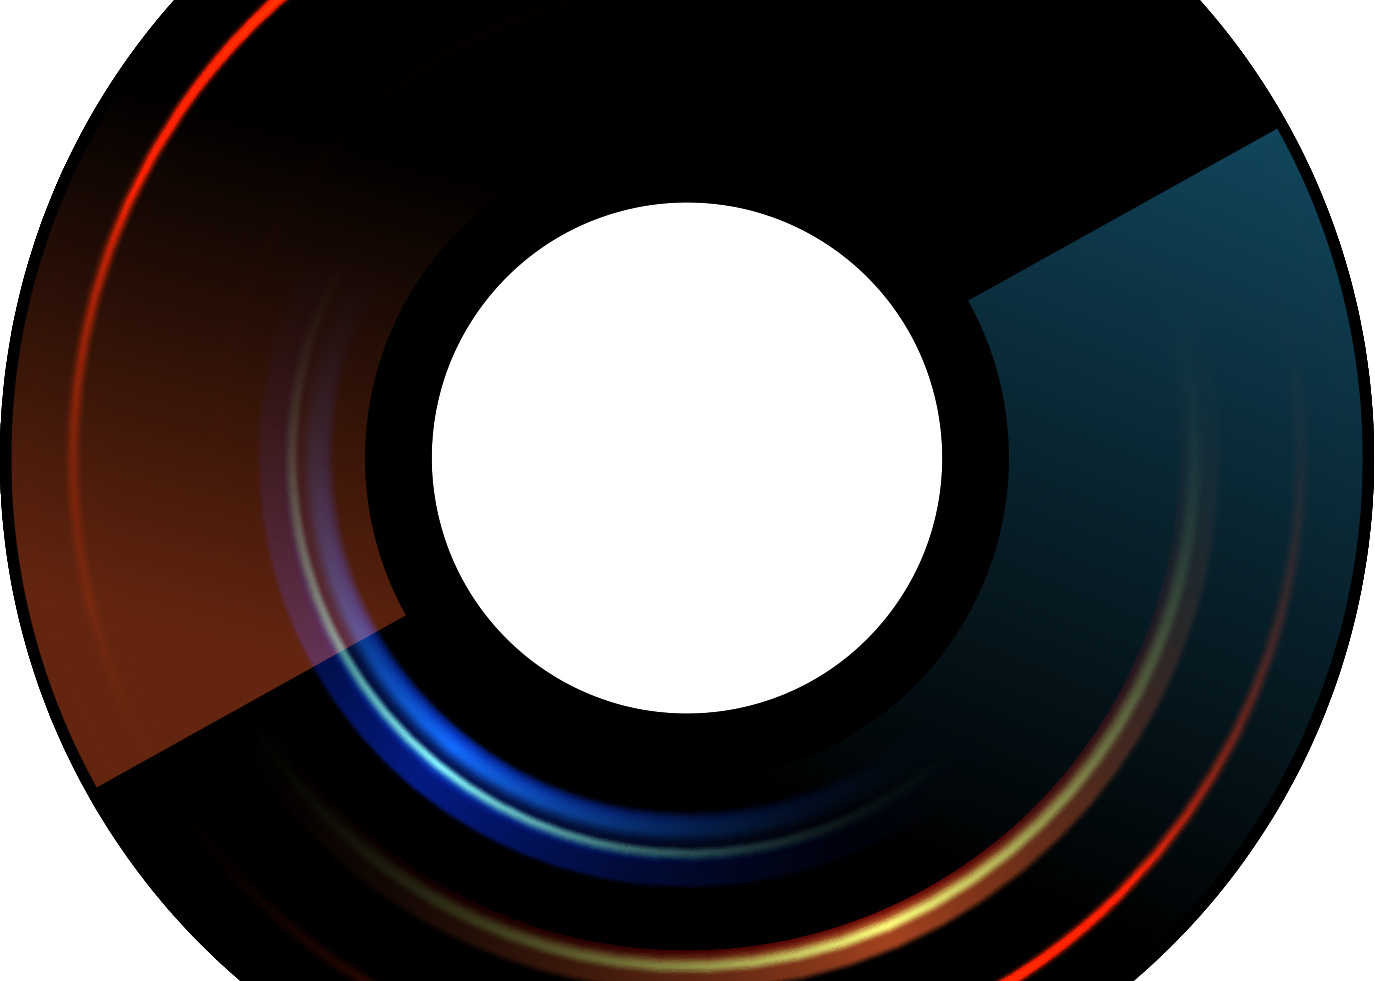
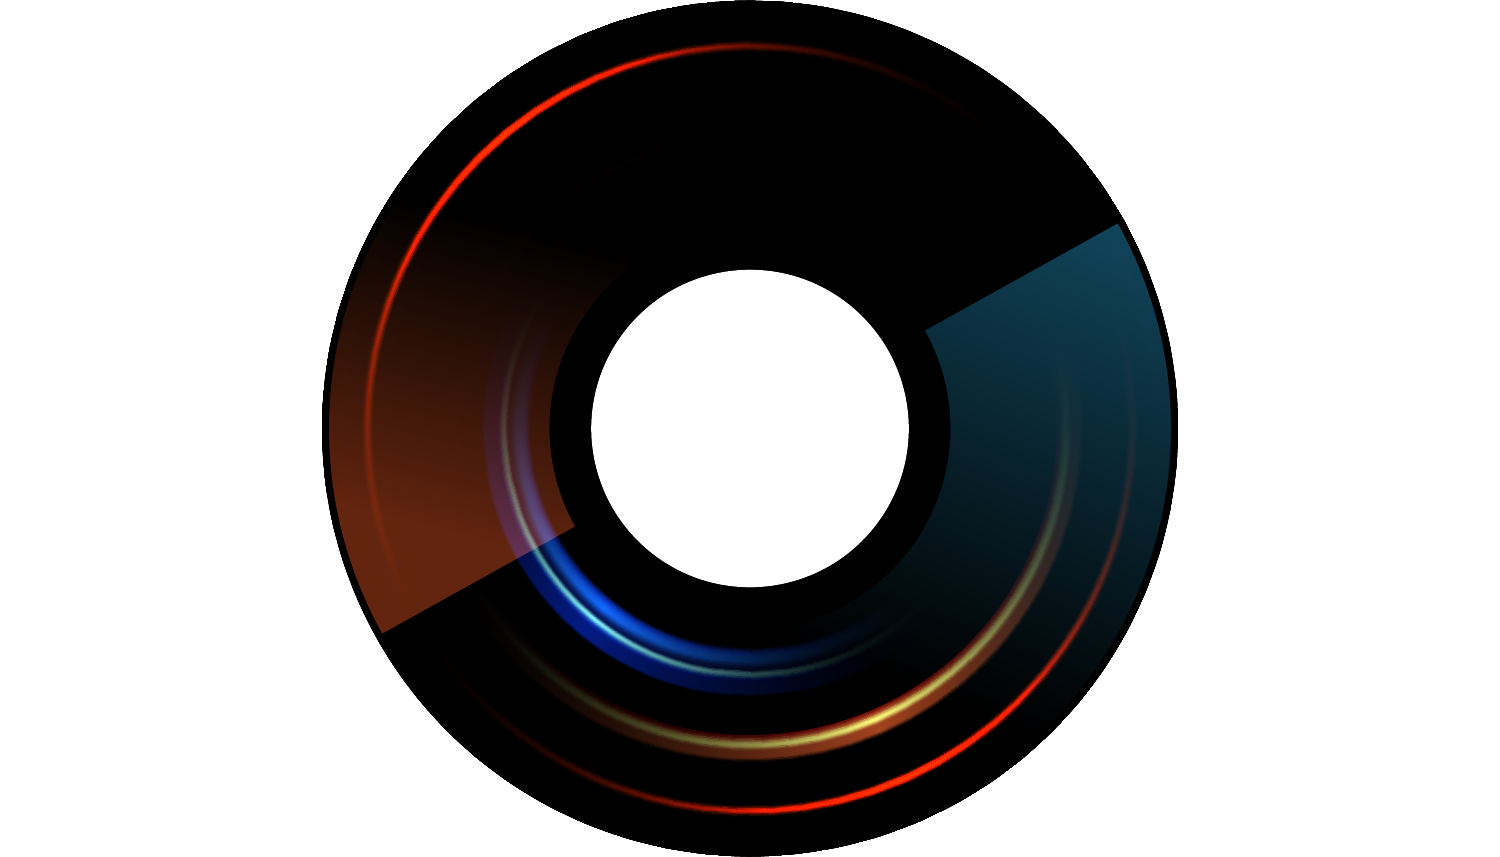
cssブレンドモードテスト

diff --git a/src/sample5/style.scss b/src/sample5/style.scss
@@ -15,26 +15,43 @@ body {
     content: '';
     display: block;
     position: absolute;
+    top: 50%;
+    left: 50%;
+    transform: translate(-50%, -50%);
     background-image: url(../../public/assets/sample5/object1.png);
     background-size: contain;
     background-repeat: no-repeat;
     background-position: center center;
-    width: 100vw;
-    height: 100vh;
+    width: 100%;
+    height: 100%;
     mix-blend-mode: screen;
       filter: brightness(1.2) contrast(0.8); 
+      animation: rotate 0.8s linear infinite;
   }
   &::after {
     content: '';
     display: block;
     position: absolute;
+    top: 50%;
+    left: 50%;
+    transform: translate(-50%, -50%) rotate(-90deg);
     background-image: url(../../public/assets/sample5/object2.png);
     background-size: contain;
     background-repeat: no-repeat;
     background-position: center center;
-    width: 100vw;
-    height: 100vh;
+    width: 100%;
+    height: 100%;
     mix-blend-mode: screen;
       filter: brightness(1.2) contrast(0.8); 
+      animation: rotate 0.6s linear infinite;
+  }
+}
+
+@keyframes rotate {
+  from {
+    transform: translate(-50%, -50%) rotate(0deg);
+  }
+  to {
+    transform: translate(-50%, -50%) rotate(360deg);
   }
 }
